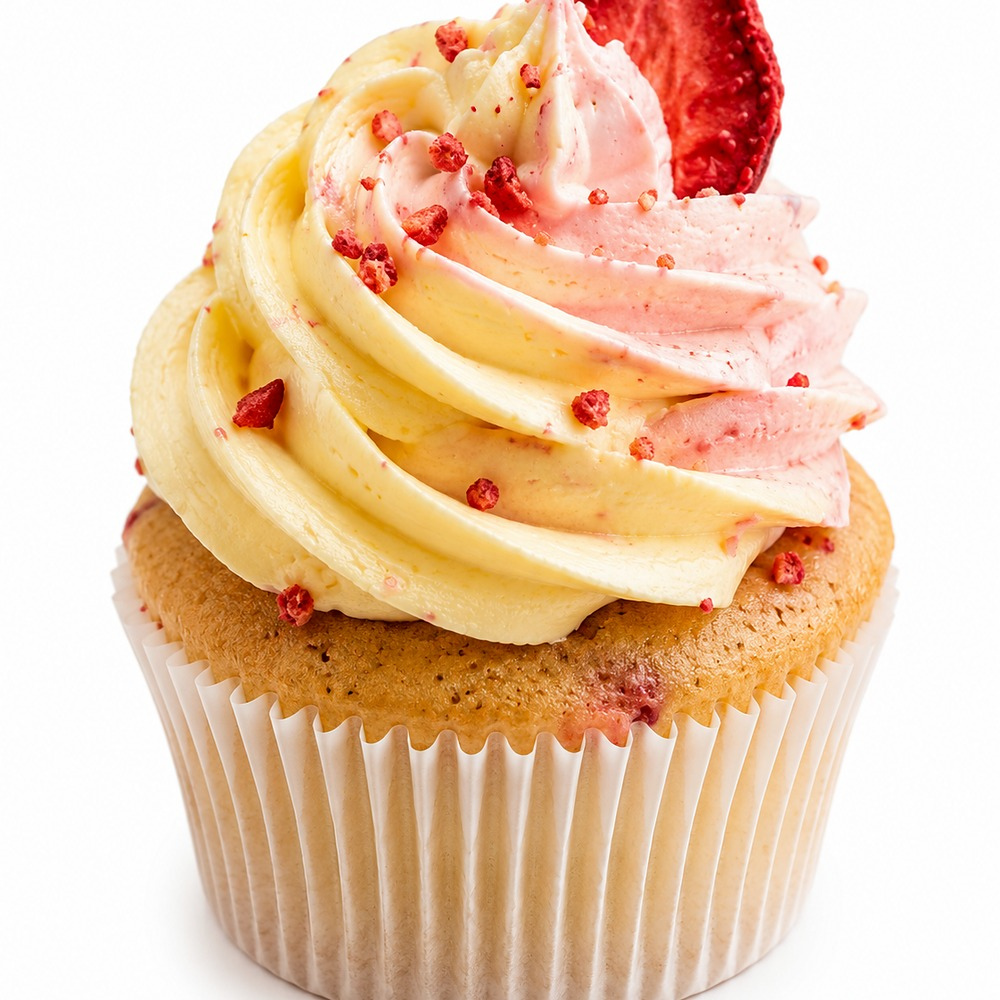
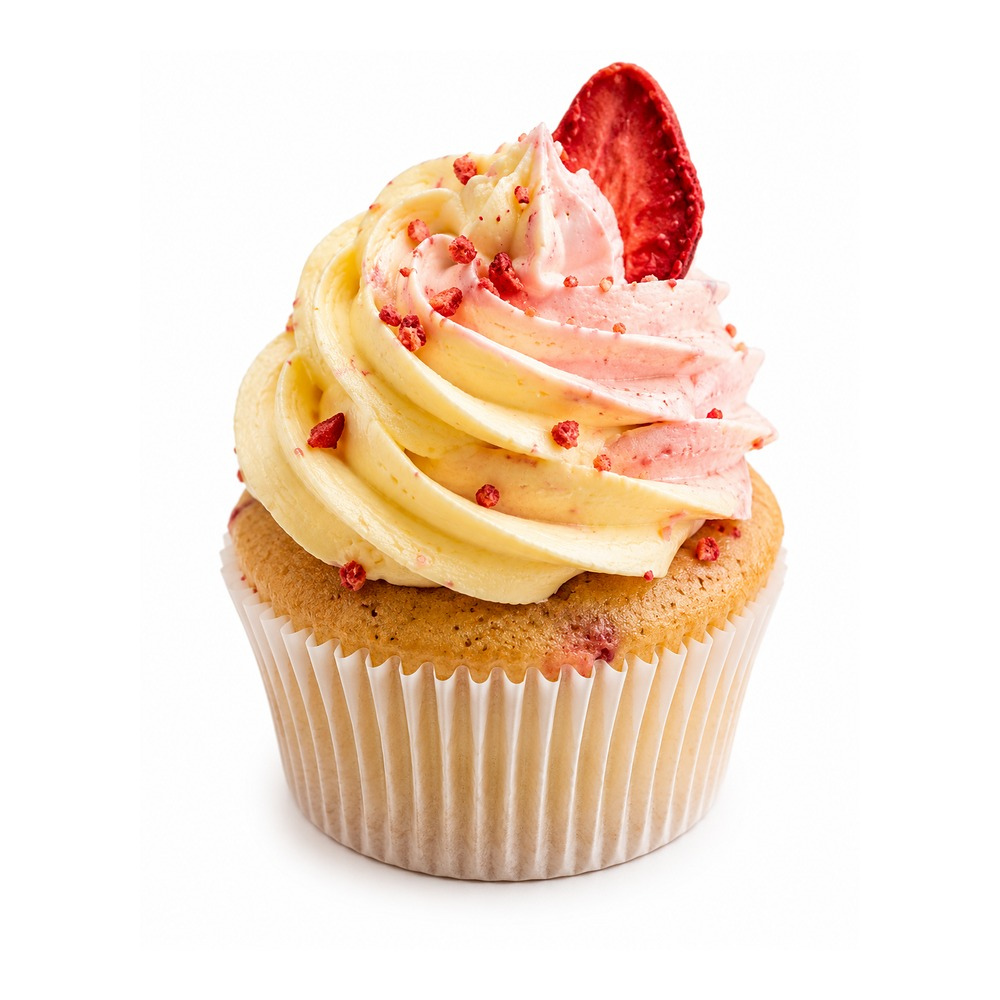
Fix Midnight and Crush cupcake thumbnails

diff --git a/styles.css b/styles.css
@@ -1414,21 +1414,3 @@ footer strong {
 }
 
 /* CUPCAKE MENU THUMBNAILS END */
-
-/* CUPCAKE THUMBNAIL FIT FIX START */
-
-#cupcakes .menu-photo {
-  object-fit: contain !important;
-  object-position: center !important;
-  background: #ffffff !important;
-  padding: 10px !important;
-  box-sizing: border-box !important;
-}
-
-@media (max-width: 700px) {
-  #cupcakes .menu-photo {
-    padding: 6px !important;
-  }
-}
-
-/* CUPCAKE THUMBNAIL FIT FIX END */
